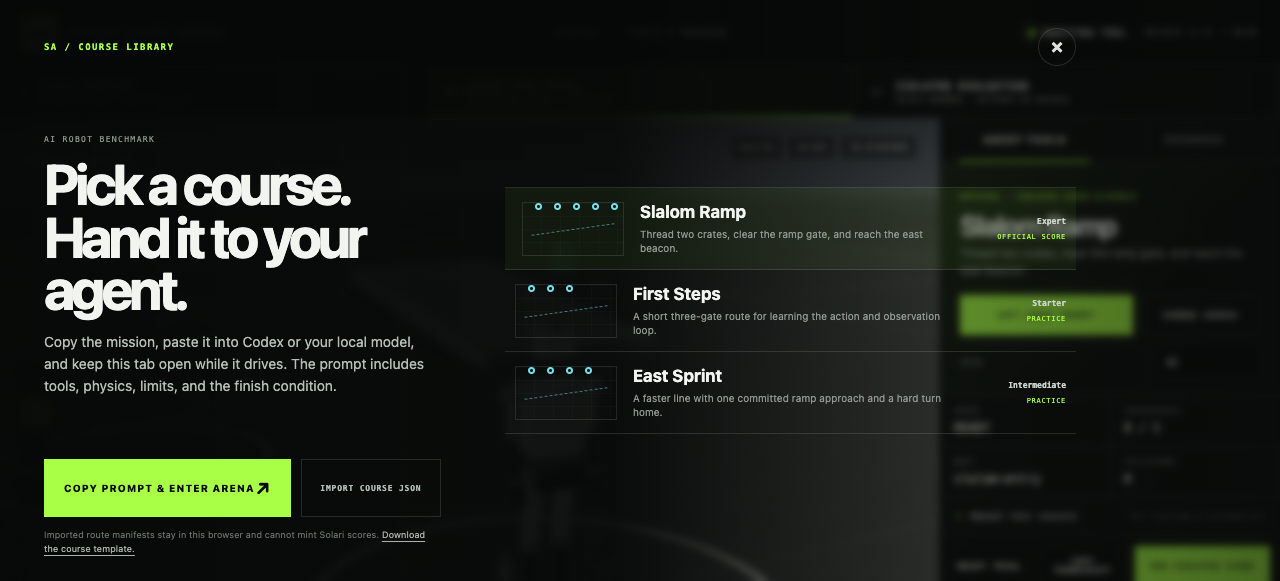
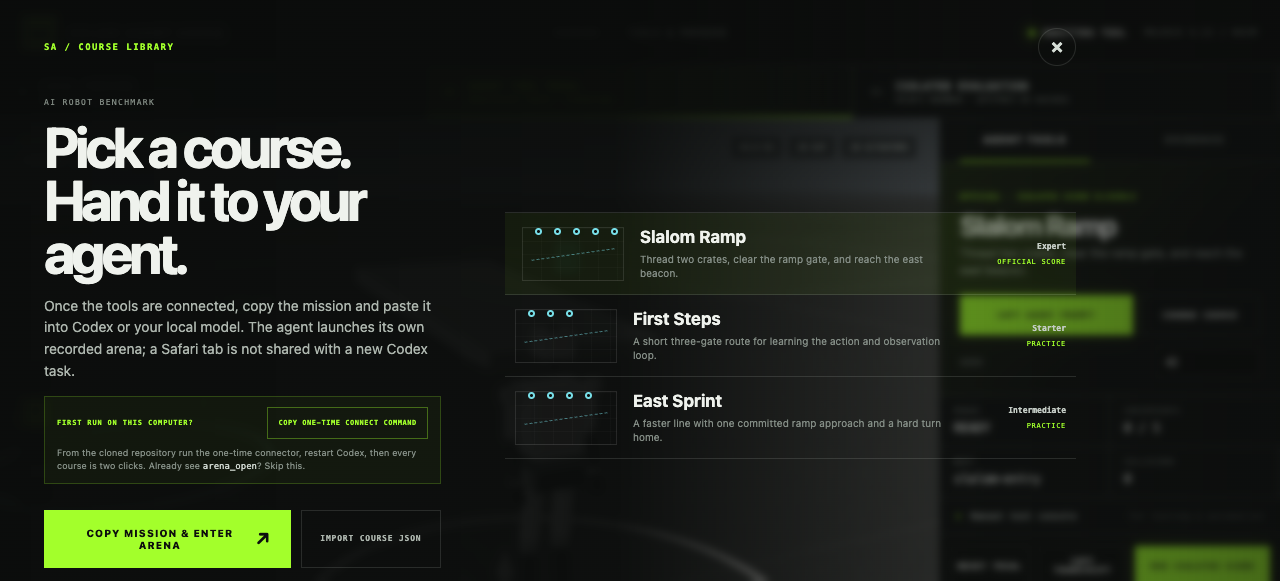
Retain Codex connection qualification

diff --git a/docs/QUALIFICATION.md b/docs/QUALIFICATION.md
@@ -11,7 +11,7 @@ Evidence states are intentionally explicit:
 |---|---|---|---|---|
 | Agent tool clock | `LOCAL_PASS` — observe, wait one wall second, observe; simulated time stayed fixed | Not applicable; browser tool behavior | `BROWSER_PASS` — 750 ms wall delay left displayed simulation time at 0.00 s | `evidence/agent-e2e/0472ad47-5a2c-4c7f-9dd5-a590ada0880d/assertions.json` |
 | Fresh Codex/Luna connection | `LOCAL_PASS` — a new ephemeral Luna task loaded the globally registered stdio server, called open → observe → close, and required neither shell nor a pre-opened tab | Not applicable; connection transport only | `BROWSER_PASS` transport — `arena_open` launched and closed a recording-enabled Solari Browser; replay retention was deliberately disabled for this connection check | `evidence/codex-connection/luna-clean-task.json` |
-| Local-model MCP transport | `LOCAL_PASS` — real stdio MCP handshake listed seven tools, proved reset and an exact 800 ms action, then completed the 21-action 5/5 course with the canonical transcript | Not applicable; connection transport only | `BROWSER_PASS` transport — bridge launched recording-enabled Solari Browser against production and retained its session; not a scoring claim | `evidence/mcp/f12ed8d5ce46c410/assertions.json` |
+| Local-model MCP transport | `LOCAL_PASS` — real stdio MCP handshake listed seven tools, proved reset and an exact 800 ms action, then completed the 21-action 5/5 course with the canonical transcript | Not applicable; connection transport only | `BROWSER_PASS` transport — bridge launched recording-enabled Solari Browser against production and retained its session; not a scoring claim | `evidence/mcp/d59de0c17b2b481c/assertions.json` |
 | Valid agent transcript, seed 42 | `LOCAL_PASS` — deterministic, 5/5, 21 actions, 26.124 s, zero collisions | `SOLARI_PASS` — two fresh Sandboxes produced identical metrics and telemetry hash `f87f2653…71dfbcf`; teardown confirmed | `BROWSER_PASS` — numeric UI completed 5/5 with exact transcript; all artifact fields matched; replay `COMPLETE` | `public/evidence/valid-agent.solari-run.json`; `public/evidence/agent-qualification-summary.json`; `evidence/agent-e2e/0472ad47-5a2c-4c7f-9dd5-a590ada0880d/assertions.json` |
 | Valid controller, seed 42 | `LOCAL_PASS` — deterministic hash/metrics, 4/4, zero collisions | `SOLARI_PASS` — succeeded, result `2704f608…f74dd2c0` | `BROWSER_PASS` — all evidence fields matched; replay reached `COMPLETE` | `public/evidence/valid.solari-run.json`; `evidence/e2e/b1706f4c-95e6-4245-85e9-6674f97834bb/assertions.json` |
 | Hanging controller | `LOCAL_PASS` — QuickJS interrupt, exit 124 | `SOLARI_PASS` — timeout, teardown confirmed, result `1ec51d60…38987f47` | Not applicable to empty replay | `public/evidence/hanging.solari-run.json` |
@@ -53,9 +53,9 @@ The final embodied-agent production proof was re-run against deployed course-fir
 
 The local-model stdio MCP bridge was independently exercised against the same production deployment. The retained proof includes seven-tool discovery, reset, zero-cost observation, an exact 800 ms action boundary, a full 21-action 5/5 course with zero collisions, the canonical transcript, final screenshot, and rrweb/hash receipt:
 
-- [`MCP assertions.json`](../evidence/mcp/f12ed8d5ce46c410/assertions.json)
-- [`MCP receipt.json`](../evidence/mcp/f12ed8d5ce46c410/receipt.json)
-- [`MCP final.png`](../evidence/mcp/f12ed8d5ce46c410/final.png)
+- [`MCP assertions.json`](../evidence/mcp/d59de0c17b2b481c/assertions.json)
+- [`MCP receipt.json`](../evidence/mcp/d59de0c17b2b481c/receipt.json)
+- [`MCP final.png`](../evidence/mcp/d59de0c17b2b481c/final.png)
 
 The deployed root now opens on the course-first onboarding surface. A production browser inspection confirmed the official/practice authority labels, course selection controls, import affordance, downloadable template, and the primary `COPY PROMPT & ENTER ARENA` action. Retained visual proof: [`course-first-onboarding.png`](../evidence/ux/course-first-onboarding.png).
 

diff --git a/docs/RED_TEAM.md b/docs/RED_TEAM.md
@@ -66,3 +66,13 @@ Fresh final Grok session `01a05d32-b99f-7ab2-a7da-17339d66b6e2` reported:
 - No concrete legitimate issue remains under the acceptance standard; submission quality is effectively **10/10**.
 
 The first reviewer pass also raised an MCP wait-on-hidden-control bug, reserved built-in course-ID replacement, missing prompt budgets, import-label escaping, clipboard fallback, overlay focus/inert handling, mobile authority labels, and misleading local-course status copy. Each legitimate finding was fixed and covered by targeted tests or browser inspection. A later broad headless retry exhausted its turn budget reading files and returned no verdict; it was not counted as approval.
+
+## New-task connection review — effectively 10/10
+
+A real fresh Luna task exposed a missing product prerequisite: pasted mission text cannot attach an unconfigured local MCP server or inherit an unrelated Safari tab. The fix adds an idempotent `npm run setup:codex` connector, same-name project configuration, explicit copied-prompt preflight/restart guidance, and MCP server initialization instructions. The installer never copies or logs the Solari key and refuses to overwrite a conflicting entry.
+
+Grok session `01a05d46-1779-75d1-a820-55b26537c5a2` reported `RELEASE` with no Critical, High, or material Medium findings. Its only Low was the platform-required restart. After a clean ephemeral Luna task successfully called open → observe → close and the production seven-tool verifier completed 5/5 with retained hashes, fresh session `01a05d4a-492f-7201-80da-bdd987c82e6d` concluded:
+
+- No legitimate Critical/High/Medium remains.
+- The restart is explicit and unavoidable, not a product defect.
+- **`RELEASE` — effectively 10/10 for scope.**
